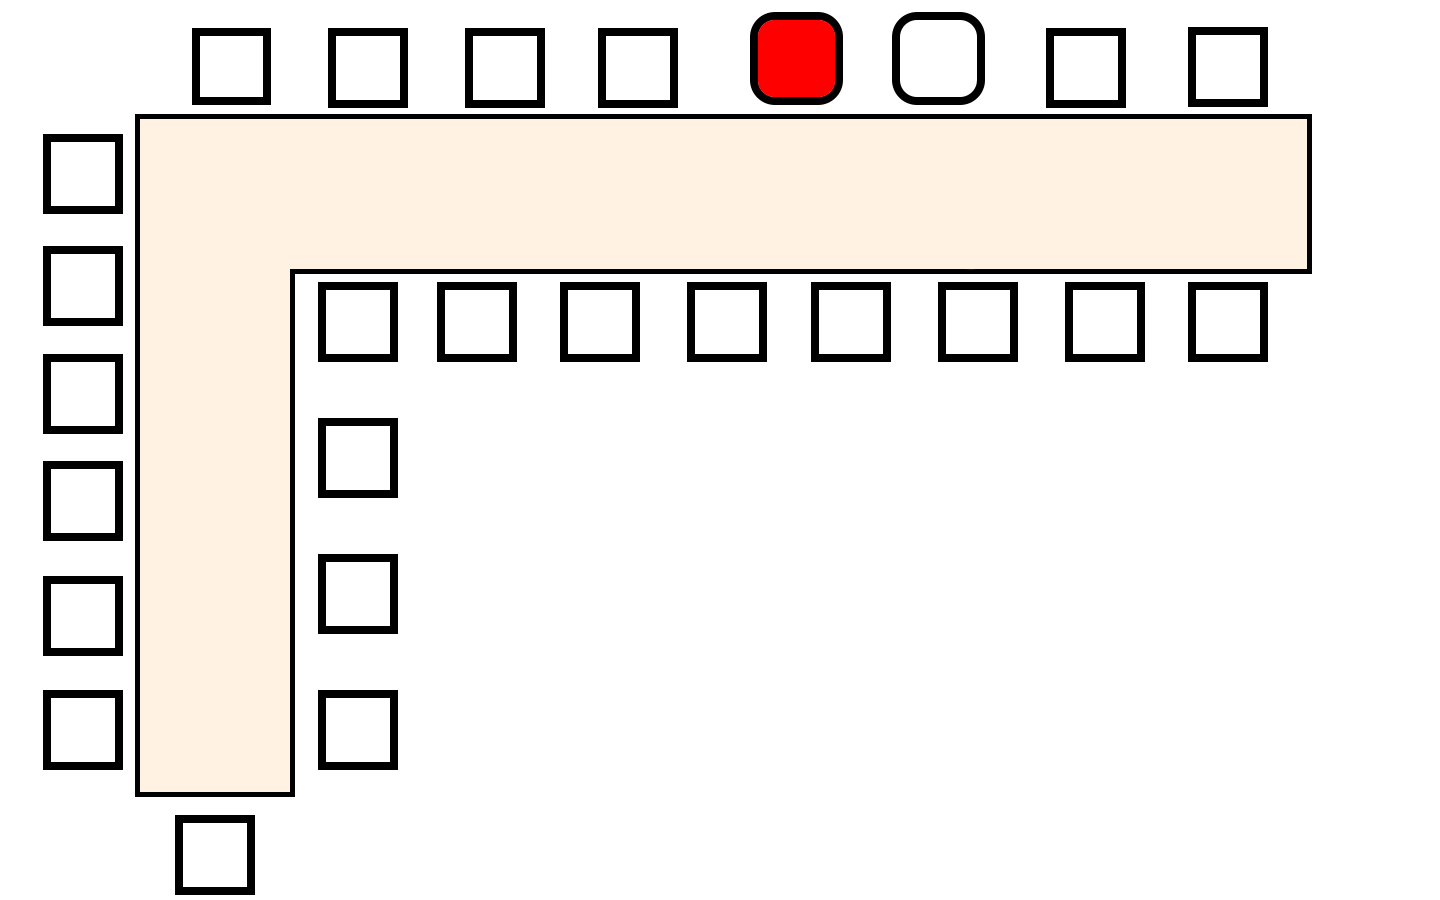
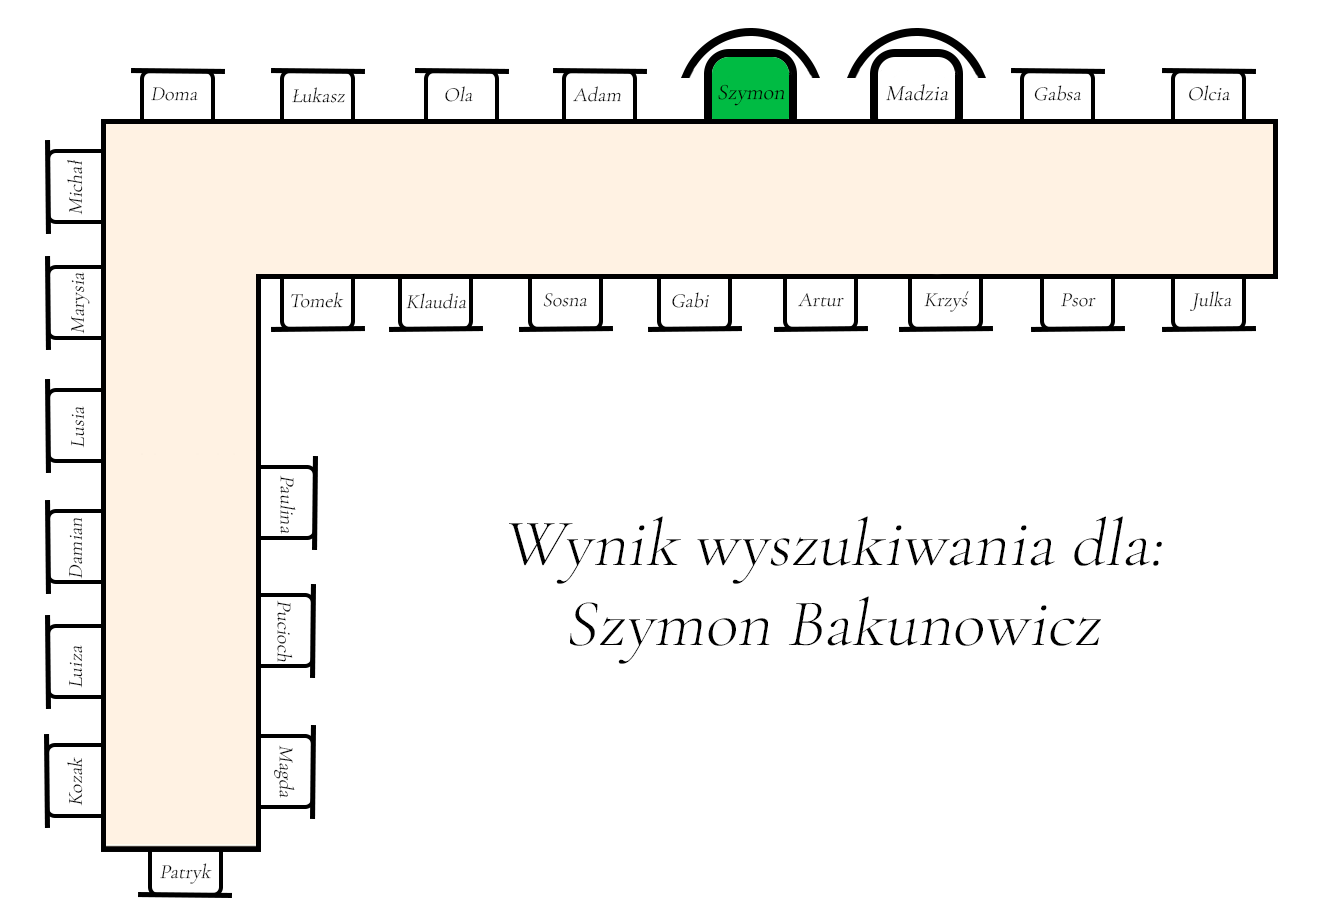
Tables png

Changed region(s): [[0.031, 0.0, 0.9924, 0.9956], [0.4342, 0.6533, 0.8374, 0.7156], [0.3722, 0.56, 0.8684, 0.6222]]

diff --git a/src/app/table/page.tsx b/src/app/table/page.tsx
@@ -5,6 +5,7 @@ import { usePathname, useRouter, useSearchParams } from "next/navigation";
 import "./table.css";
 import { useDebouncedCallback } from "use-debounce";
 import TableContent from "@/ui/TableContent/TableContent";
+import {Suspense} from "react";
 
 
 export default function Table() {
@@ -40,15 +41,17 @@ export default function Table() {
             <div className="tableBody">
                 <div className="tableContent pl-6 pr-6">
                     <h1 className="mt-4 mb-2">Podaj swoje imię i nazwisko:</h1>
-                    <input
-                        className="mr-6 peer text-center block w-full rounded-md border border-gray-200 py-[9px] pl-2 pr-2 text-sm outline-2 placeholder:text-gray-500"
-                        placeholder="Imię i nazwisko"
-                        onChange={(e) => {
-                            handleSearch(e.target.value);
-                        }}
-                        defaultValue={searchParams.get('query')?.toString()}/>
+                    <Suspense>
+                        <input
+                            className="mr-6 peer text-center block w-full rounded-md border border-gray-200 py-[9px] pl-2 pr-2 text-sm outline-2 placeholder:text-gray-500"
+                            placeholder="Imię i nazwisko"
+                            onChange={(e) => {
+                                handleSearch(e.target.value);
+                            }}
+                            defaultValue={searchParams.get('query')?.toString()}/>
+                    </Suspense>
 
-                    {query && <TableContent params={{value: query}} />}
+                    {query && <TableContent params={{value: query}}/>}
                 </div>
             </div>
         </div>

diff --git a/src/ui/TableContent/TableContent.tsx b/src/ui/TableContent/TableContent.tsx
@@ -19,10 +19,10 @@ export default function TableContent({params} : {params: {value: string}}) {
         "magdalena bakunowicz": "/tables/table-madzia.png",
         "madzia": "/tables/table-madzia.png",
         //Magda T
-        "magda": "/tables/table-magda-t.png",
-        "magda topczewska": "/tables/table-magda-t.png",
-        "magdalena topczewska": "/tables/table-magda-t.png",
-        "topczewska": "/tables/table-magda-t.png",
+        "magda": "/tables/table-magda.png",
+        "magda topczewska": "/tables/table-magda.png",
+        "magdalena topczewska": "/tables/table-magda.png",
+        "topczewska": "/tables/table-magda.png",
         //Psor
         "psor": "/tables/table-psor.png",
         "michał ostapowicz": "/tables/table-psor.png",
@@ -100,6 +100,7 @@ export default function TableContent({params} : {params: {value: string}}) {
         "korzynska": "/tables/table-ola-k.png",
         "ola korzynska": "/tables/table-ola-k.png",
         "aleksandra korzynska": "/tables/table-ola-k.png",
+        "olcia": "/tables/table-ola-k.png",
         //Doma
         "doma": "/tables/table-doma.png",
         "dominika": "/tables/table-doma.png",
